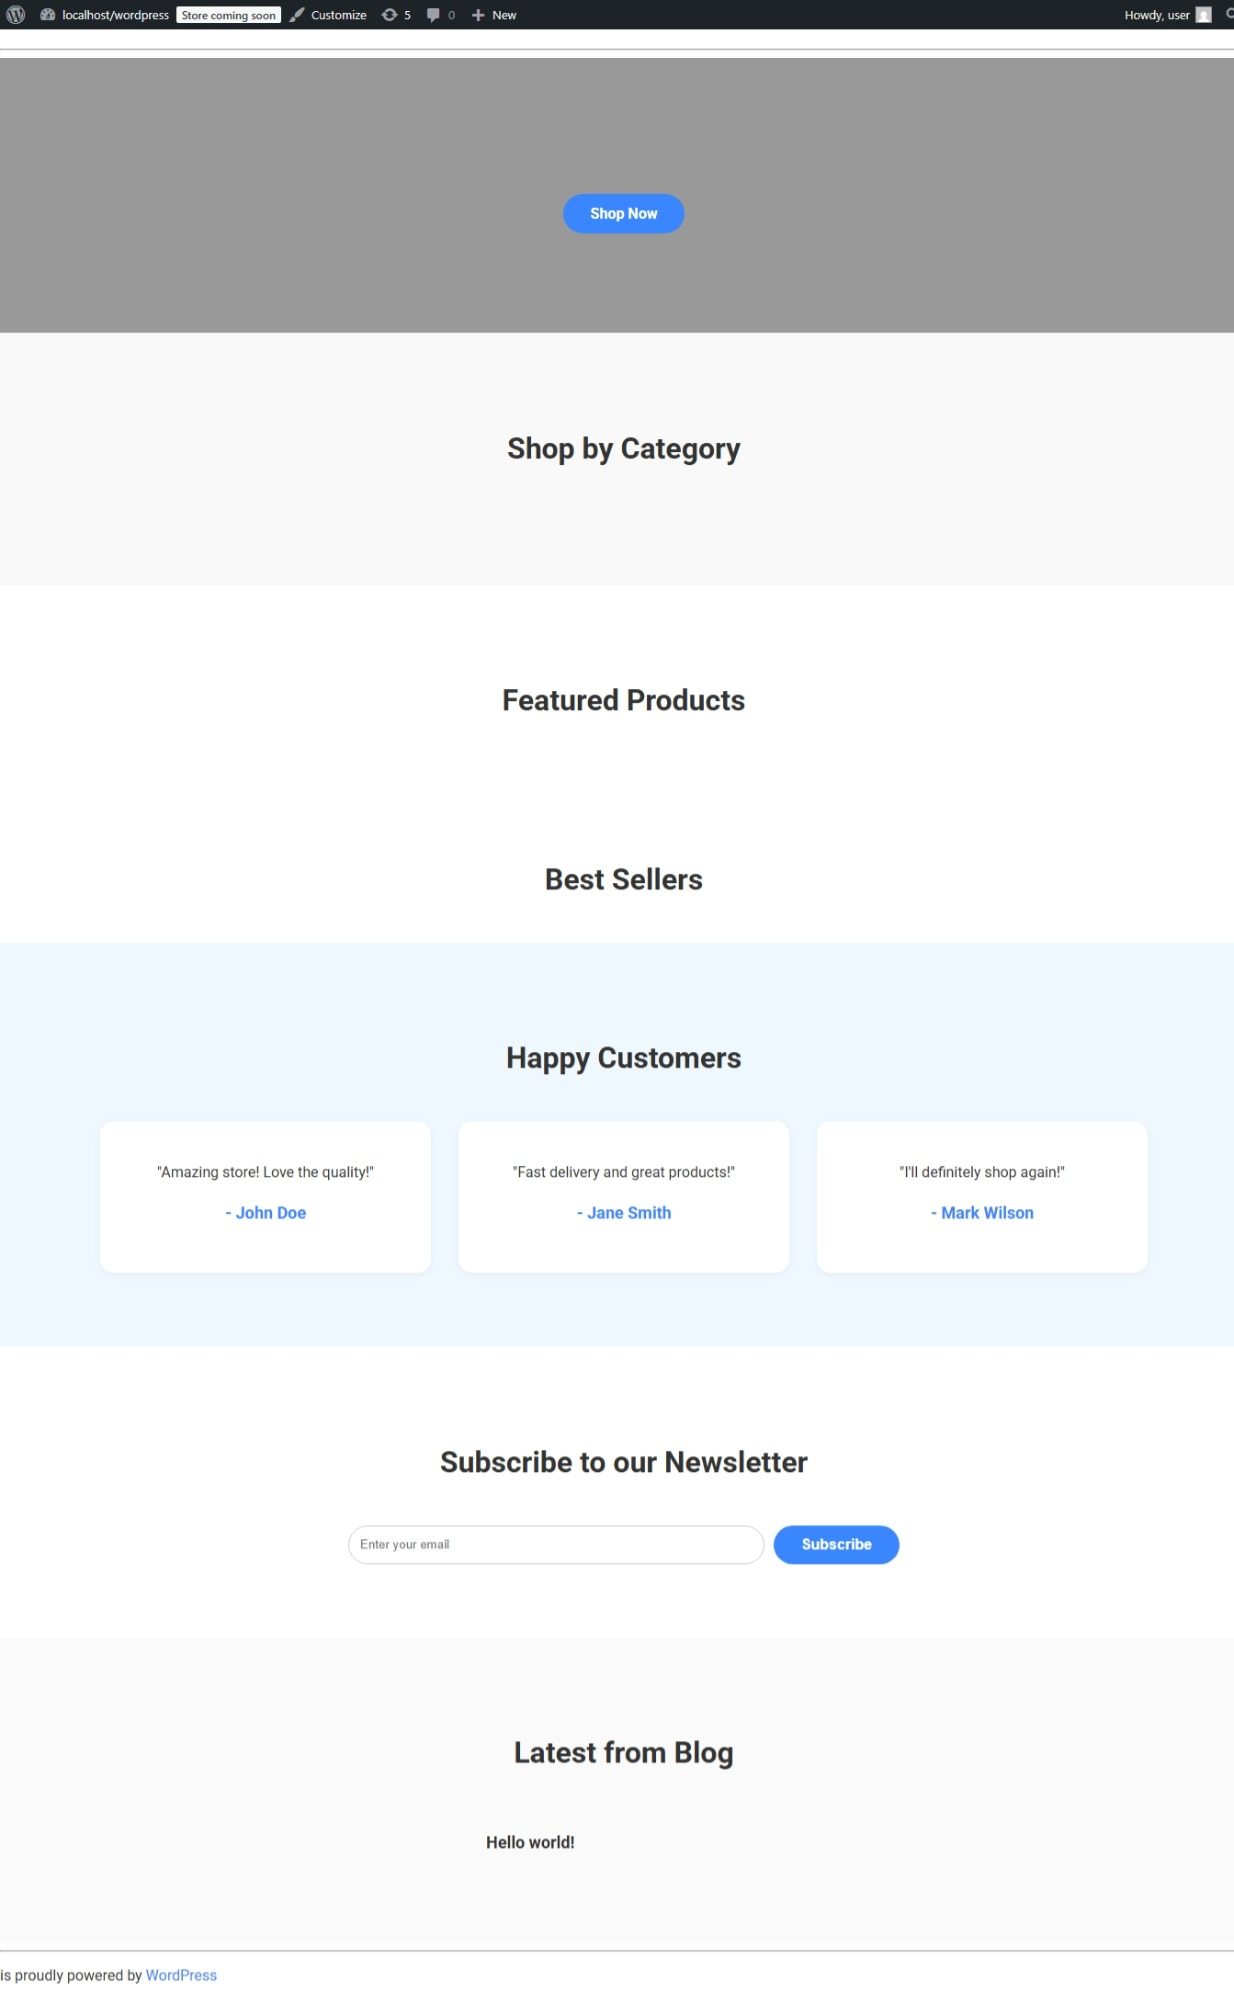
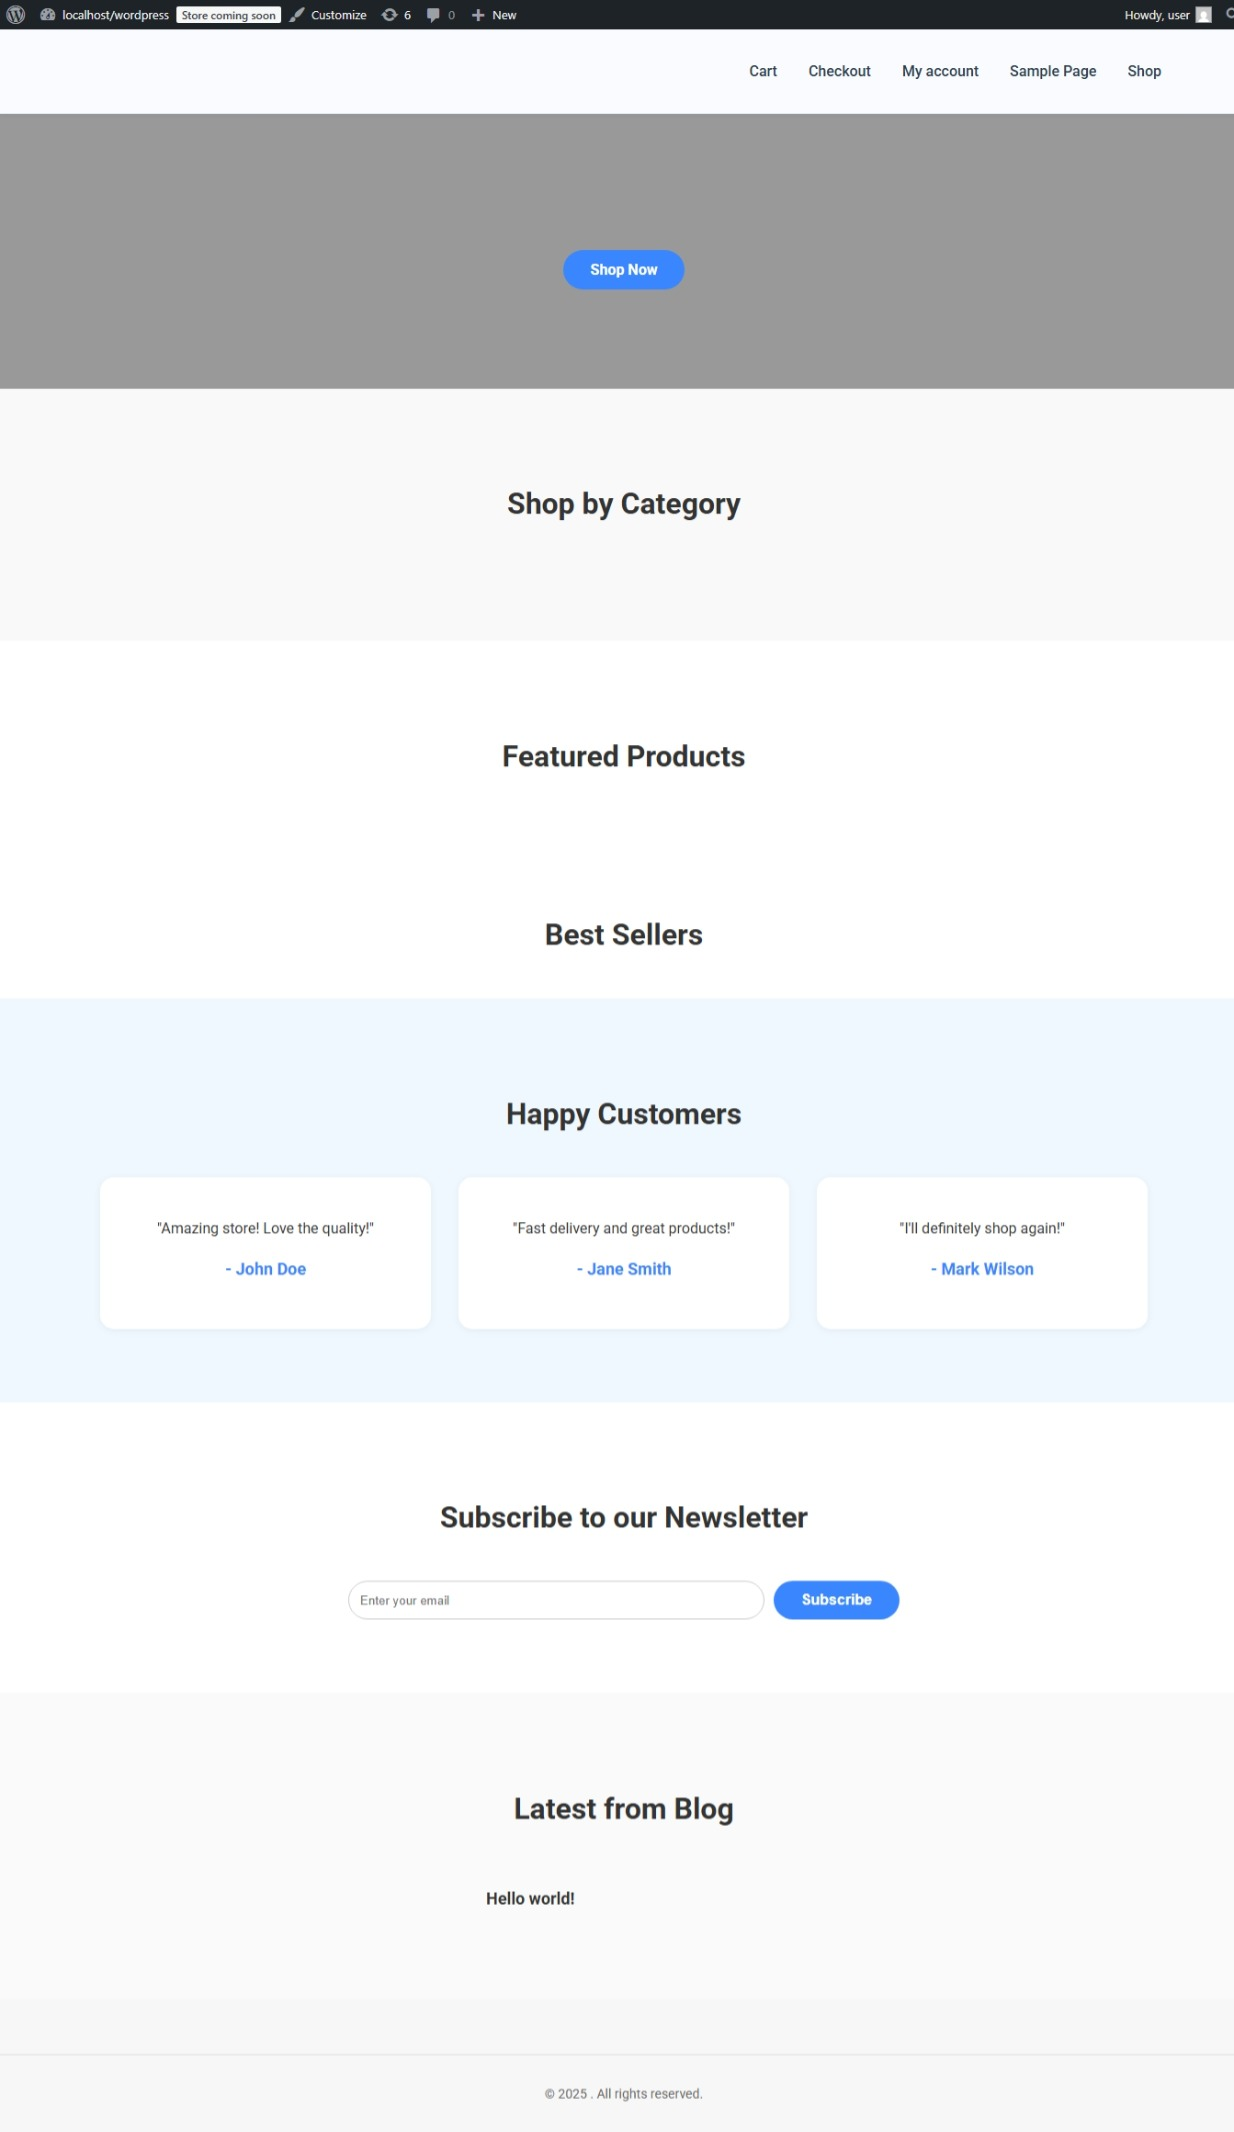
updated*

diff --git a/www/wordpress/wp-content/themes/GIFTON/assets/css/style.css b/www/wordpress/wp-content/themes/GIFTON/assets/css/style.css
@@ -1,88 +1,74 @@
-/* Header */
+/* Header Section */
 .site-header {
-    background: #ffffff;
-    box-shadow: 0 2px 4px rgba(0,0,0,0.05);
-    padding: 10px 0;
+    background-color: #f9fbff;
+    padding: 20px 0;
+    border-bottom: 1px solid #e2e8f0;
+    box-shadow: 0 2px 6px rgba(0,0,0,0.05);
+    font-family: 'Roboto', sans-serif;
 }
 
-.header-container {
+/* Header Inner Container */
+.header-inner {
+    display: flex;
+    justify-content: space-between;
+    align-items: center;
     max-width: 1200px;
     margin: 0 auto;
-    display: flex;
-    align-items: center;
-    justify-content: space-between;
+    padding: 0 20px;
 }
 
-.logo-area img {
-    max-height: 60px;
+/* Site Logo */
+.site-branding img {
+    max-height: 100px;
+    width: auto;
+    height: auto;
 }
 
+/* Site Title (fallback if logo is not uploaded) */
 .site-title {
-    font-size: 24px;
-    font-weight: bold;
-    color: #3a86ff;
+    font-size: 28px;
+    font-weight: 700;
+    color: #2c3e50;
     text-decoration: none;
 }
 
-.main-navigation ul {
+/* Navigation Menu */
+.main-navigation .nav-menu {
     list-style: none;
     margin: 0;
     padding: 0;
     display: flex;
+    gap: 25px;
 }
 
-.main-navigation li {
-    margin: 0 15px;
+.main-navigation .nav-menu li {
+    display: inline-block;
 }
 
-.main-navigation a {
-    color: #333;
+.main-navigation .nav-menu a {
     text-decoration: none;
-    font-weight: 600;
+    font-weight: 500;
+    font-size: 16px;
+    color: #2c3e50;
+    padding: 10px 15px;
+    border-radius: 8px;
+    transition: all 0.3s ease;
 }
 
-.main-navigation a:hover {
-    color: #3a86ff;
+.main-navigation .nav-menu a:hover,
+.main-navigation .nav-menu .current-menu-item a {
+    background-color: #dbeafe;
+    color: #1e3a8a;
 }
 
-.header-icons {
-    position: relative;
-}
-
-.cart-icon {
-    font-size: 20px;
-    color: #333;
-    text-decoration: none;
-    position: relative;
-}
-
-.cart-count {
-    background: #3a86ff;
-    color: #fff;
-    font-size: 12px;
-    border-radius: 50%;
-    padding: 2px 6px;
-    position: absolute;
-    top: -8px;
-    right: -10px;
-}
-
-/* Logo and Site Title */
-.site-branding {
-    display: flex;
-    align-items: center;
-}
-
-.site-branding img {
-    max-width: 200px;
+/* Header Image (if set in customizer) */
+.header-image img {
+    width: 100%;
     height: auto;
-}
-
-.site-branding .site-title {
-    font-size: 28px;
-    font-family: 'Roboto', sans-serif;
-    margin-left: 10px;
-    color: #333;
+    display: block;
+    margin-top: 20px;
+    border-radius: 10px;
+    box-shadow: 0 2px 10px rgba(0,0,0,0.1);
 }
 
 

diff --git a/www/wordpress/wp-content/themes/GIFTON/style.css b/www/wordpress/wp-content/themes/GIFTON/style.css
@@ -4,7 +4,7 @@ Theme URI: https://github.com/giftontoolkit/GIFTON-Toolkit
 Author: Muhammad Muzammyl
 Author URI: https://github.com/muzammyl/
 Description: GIFTON is an elegant and stylish modern eCommerce WordPress theme. It is WooCommerce-ready and fully customizable.
-Version: 1.0.0
+Version: 3.0.0
 License: GNU General Public License v2 or later
 License URI: https://www.gnu.org/licenses/gpl-2.0.html
 Text Domain: gifton

diff --git a/www/wordpress/wp-content/themes/GIFTON/functions.php b/www/wordpress/wp-content/themes/GIFTON/functions.php
@@ -3,7 +3,6 @@
  * GIFTON Theme Functions
  */
 
-if ( ! function_exists( 'gifton_setup' ) ) :
 function gifton_setup() {
     // Load theme textdomain
     load_theme_textdomain( 'gifton', get_template_directory() . '/languages' );
@@ -31,6 +30,7 @@ function gifton_setup() {
         'width'       => 300,
         'flex-width'  => true,
         'flex-height' => true,
+        'header-text' => array('site-title', 'site-description'),
     ) );
 
     // Custom background support
@@ -39,19 +39,21 @@ function gifton_setup() {
         'default-image' => '',
     ) );
 
-    // Custom header image (optional)
+    // Header image support
     add_theme_support( 'custom-header', array(
-        'width'  => 1920,
-        'height' => 400,
-        'flex-height' => true,
-        'flex-width'  => true,
+        'default-image'      => '',
+        'width'              => 1600,
+        'height'             => 400,
+        'flex-height'        => true,
+        'flex-width'         => true,
+        'uploads'            => true,
     ) );
+
 
     add_theme_support( 'html5', array( 'search-form', 'comment-form', 'comment-list', 'gallery', 'caption', ) );
     add_theme_support( 'customize-selective-refresh-widgets' );
     
 }
-endif;
 add_action( 'after_setup_theme', 'gifton_setup' );
 
 /**
@@ -238,4 +240,5 @@ function gifton_widgets_init() {
     ) );
 }
 add_action( 'widgets_init', 'gifton_widgets_init' );
+
 ?>

diff --git a/www/wordpress/wp-content/themes/GIFTON/header.php b/www/wordpress/wp-content/themes/GIFTON/header.php
@@ -1,0 +1,49 @@
+<?php
+/**
+ * header.php - GIFTON Theme
+ */
+?>
+<!DOCTYPE html>
+<html <?php language_attributes(); ?>>
+<head>
+    <meta charset="<?php bloginfo( 'charset' ); ?>">
+    <meta name="viewport" content="width=device-width, initial-scale=1">
+    <?php wp_head(); ?>
+</head>
+<body <?php body_class(); ?>>
+
+<header class="site-header">
+    <div class="container header-inner">
+
+        <div class="site-branding">
+            <?php
+            if ( has_custom_logo() ) {
+                the_custom_logo();
+            } else {
+                ?>
+                <a class="site-title" href="<?php echo esc_url( home_url( '/' ) ); ?>">
+                    <?php bloginfo( 'name' ); ?>
+                </a>
+                <?php
+            }
+            ?>
+        </div>
+
+        <nav class="main-navigation">
+            <?php
+            wp_nav_menu( array(
+                'theme_location' => 'primary',
+                'menu_class'     => 'nav-menu',
+                'container'      => false,
+            ) );
+            ?>
+        </nav>
+
+    </div>
+
+    <?php if ( get_header_image() ) : ?>
+        <div class="header-image">
+            <img src="<?php header_image(); ?>" alt="<?php bloginfo( 'name' ); ?>">
+        </div>
+    <?php endif; ?>
+</header>

diff --git a/www/wordpress/wp-content/themes/GIFTON/footer.php b/www/wordpress/wp-content/themes/GIFTON/footer.php
@@ -1,0 +1,35 @@
+<?php
+/**
+ * Footer Template
+ */
+?>
+
+<footer class="site-footer">
+    <div class="container footer-container">
+        <?php if ( is_active_sidebar( 'footer-1' ) ) : ?>
+            <div class="footer-widget">
+                <?php dynamic_sidebar( 'footer-1' ); ?>
+            </div>
+        <?php endif; ?>
+
+        <?php if ( is_active_sidebar( 'footer-2' ) ) : ?>
+            <div class="footer-widget">
+                <?php dynamic_sidebar( 'footer-2' ); ?>
+            </div>
+        <?php endif; ?>
+
+        <?php if ( is_active_sidebar( 'footer-3' ) ) : ?>
+            <div class="footer-widget">
+                <?php dynamic_sidebar( 'footer-3' ); ?>
+            </div>
+        <?php endif; ?>
+    </div>
+
+    <div class="container footer-bottom">
+        <p>&copy; <?php echo date('Y'); ?> <?php bloginfo('name'); ?>. All rights reserved.</p>
+    </div>
+</footer>
+
+<?php wp_footer(); ?>
+</body>
+</html>

diff --git a/www/wordpress/wp-content/themes/GIFTON/home.php b/www/wordpress/wp-content/themes/GIFTON/home.php
@@ -5,7 +5,7 @@
 get_header(); ?>
 
 <main>
-
+    
     <?php get_template_part('template-parts/hero'); ?>
     <?php get_template_part('template-parts/featured-categories'); ?>
     <?php get_template_part('template-parts/featured-products'); ?>
